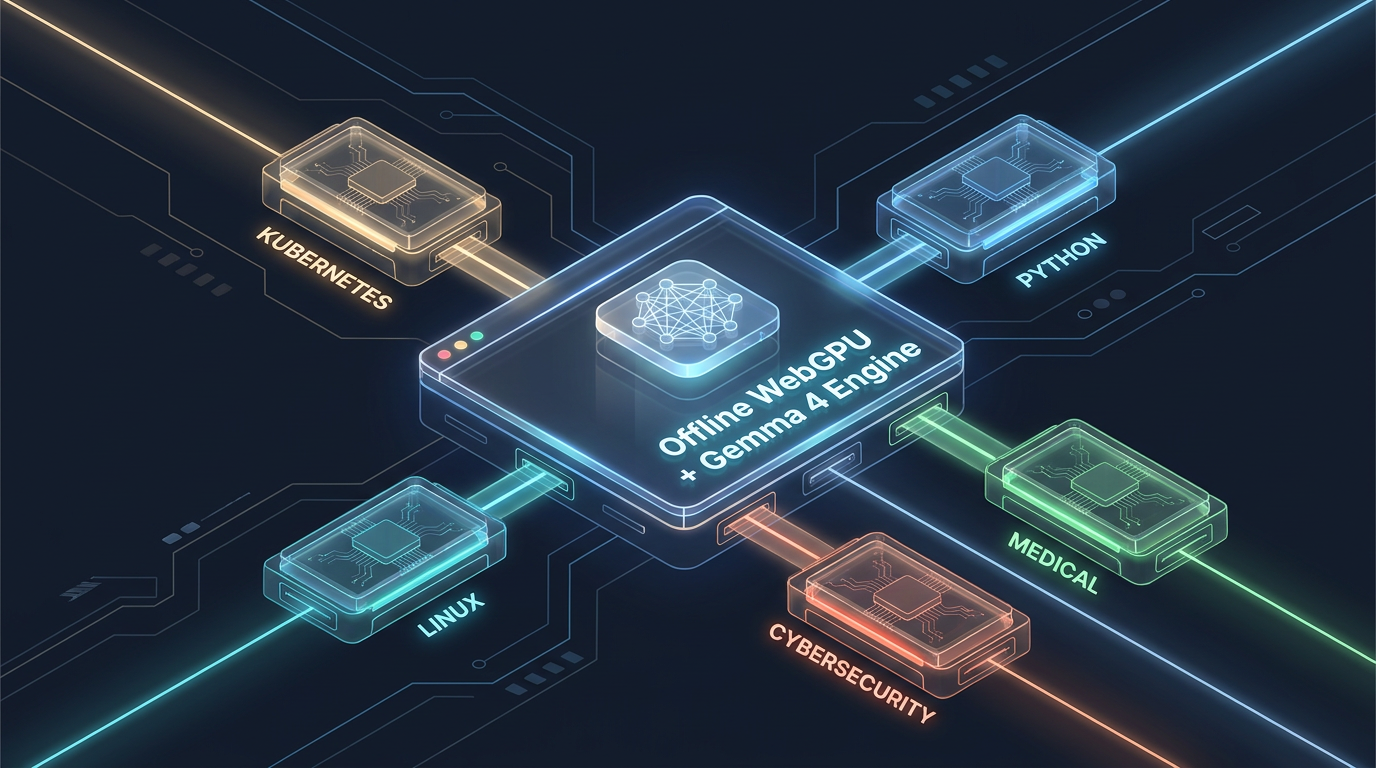
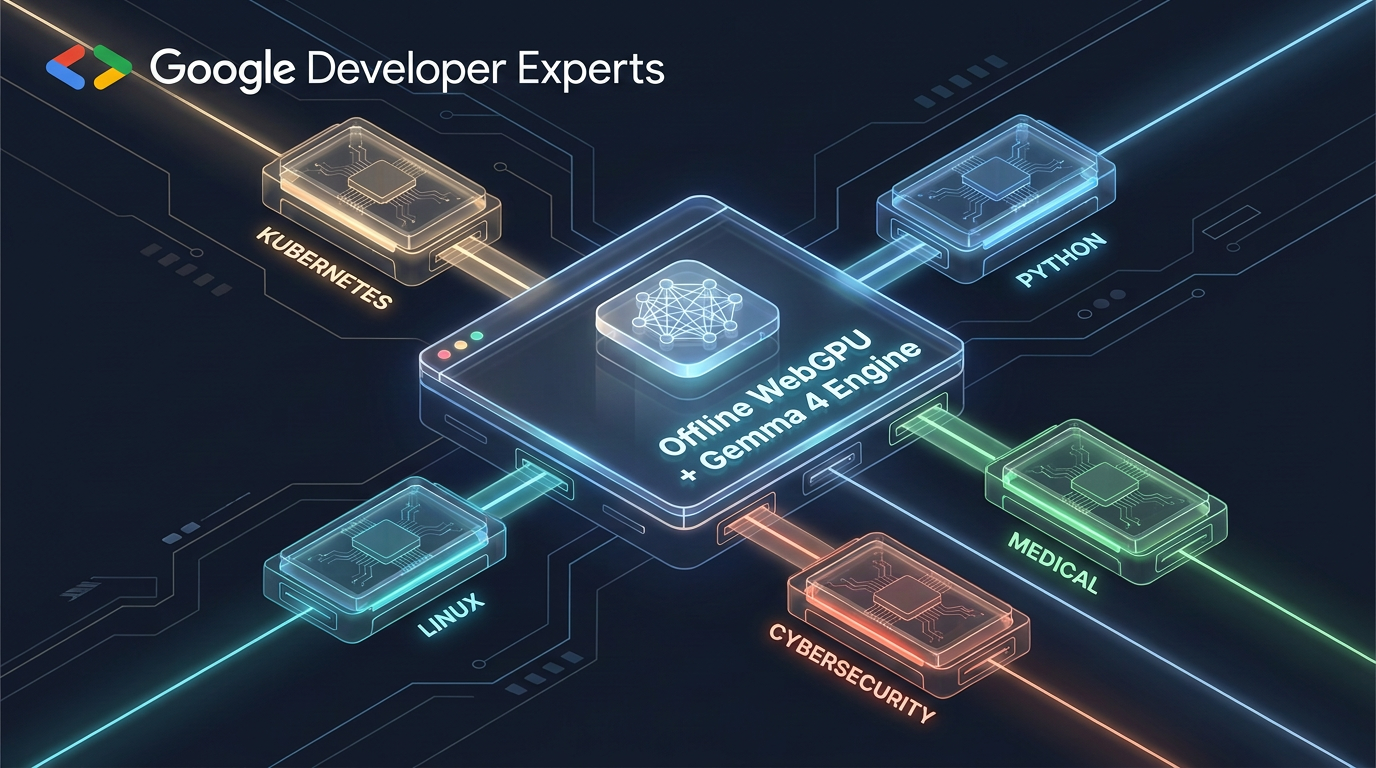
Expand universal RAG blog and add GDE lockup to cover image

Changed region(s): [[0.0312, 0.0625, 0.5, 0.125]]

diff --git a/blog/universal-rag-blog.md b/blog/universal-rag-blog.md
@@ -1,6 +1,6 @@
-# Making Offline Web AI RAG Universal: How to Swap Subjects in Minutes
+# Making Offline Web AI RAG Universal: Introducing SourceDesk AI & Replaceable Subject Packs
 
-### Turn a Kubernetes-specific offline RAG exam assistant into a reusable, subject-agnostic platform for Python, Linux, Cybersecurity, or any technical course.
+### How to turn a single-course offline RAG exam assistant into a universal, subject-agnostic platform—supporting Markdown, PDF, DOCX, and HTML with 1-command subject updates.
 
 ![Making Offline Web AI RAG Universal — Cover Image](./images/universal-cover.png)
 
@@ -10,110 +10,110 @@ That post covered *why* offline Web AI solves classroom equity and academic inte
 
 Now comes the next practical question from educators:
 
-> **"I don't teach Kubernetes. How do I adapt this for Python, Linux administration, cybersecurity, or my own course notes—and update it easily every semester?"**
+> **"I don't teach Kubernetes. How do I adapt this for Python, Linux administration, cybersecurity, or my own course notes—and update it easily every semester without rebuilding the entire 2 GB model bundle?"**
 
-The good news is that **the entire browser runtime and Windows packager are already domain-agnostic**. You don't need to touch WebGPU shaders, OPFS caching, or LiteRT-LM bindings to switch subjects.
-
-In this guide, we'll look at how to decouple the **subject corpus** from the **universal runtime**, and how to set up a clean, repeatable workflow to swap or update subjects in minutes.
+That is exactly why we evolved the architecture into **[SourceDesk AI](https://github.com/wongcyrus/sourcedesk-ai)** (`sourcedesk-ai`): a universal offline RAG platform built around **replaceable subject packs** and **shared local models**.
 
 ---
 
 ## 1. The Core Insight: Fixed Runtime vs. Swappable Subject Cartridge
 
-When you strip away the Kubernetes branding, the system splits cleanly into two layers:
+When you strip away the Kubernetes branding, the system splits cleanly into two independent layers:
 
 ![Fixed Runtime vs. Swappable Subject Cartridge](./images/subject-swap-architecture.png)
 
-1. **The Fixed Universal Runtime (Never Changes)**
-   - `src/CosineSimilarity.js`: Loads any normalized `vectors-<hash>.f32` matrix into WebGPU.
-   - `src/KeywordSearch.js`: Runs BM25 + Reciprocal Rank Fusion (RRF) over any `keywords-<hash>.json`.
-   - `src/OfflineAnswerGenerator.js`: Streams grounded answers from `Gemma 4 E2B` with OPFS caching.
-   - `scripts/package-windows.py` & `windows/serve.py`: Bundles Python 3.14.4 embeddable + static assets into `<2 GiB` offline ZIPs on `localhost:8080`.
+### 1. The Fixed Universal Runtime (Built Once, Shared Across All Courses)
+- **`src/CosineSimilarity.js`**: Loads any normalized `vectors-<hash>.f32` matrix into WebGPU and runs `tf.matMul` + `tf.topk` in milliseconds.
+- **`src/KeywordSearch.js`**: Runs BM25 + Reciprocal Rank Fusion (RRF) over any `keywords-<hash>.json`.
+- **`src/OfflineAnswerGenerator.js`**: Streams grounded answers from **Gemma 4 E2B** (`~2.01 GB`) with atomic **OPFS** caching.
+- **Shared Model & Windows Runtime (`package:common` / `package:app`)**: Bundles Python 3.14.4 embeddable, `EmbeddingGemma 300M`, and `Gemma 4 E2B` once.
 
-2. **The Swappable Subject Cartridge (Changes Per Course)**
-   - **Source Documentation**: An HTML print view, static docs site (MkDocs, Docusaurus, Sphinx), or Markdown/PDFs converted to HTML.
-   - **Prebuilt Index**: `vectors-<hash>.f32` + `keywords-<hash>.json` + chunk metadata.
-   - **Sanitized Local Mirror**: Offline HTML pages + images with `script-src 'none'` CSP.
-   - **Subject Metadata**: Course title, example questions, and the system prompt domain instruction.
+### 2. The Swappable Subject Pack (Lightweight, Course-Specific)
+Everything that changes between courses lives in a self-contained subject pack:
+- **Source Documentation**: HTML, Markdown (`.md`), PDF (`.pdf`), or Word (`.docx`) course materials.
+- **Prebuilt Index**: `vectors-<hash>.f32` + `keywords-<hash>.json` + chunk metadata.
+- **Sanitized Local Mirror**: Offline HTML pages + local assets with `script-src 'none'` CSP.
+- **Subject Manifest**: Course title, domain prompt instructions, and sample questions.
 
----
-
-## 2. Making It Universal with `subject.config.json`
-
-Currently, Kubernetes-specific values live in a few places:
-- `scripts/build-kubernetes.mjs` (source URL, sitemap, output paths)
-- `src/OfflineAnswerGenerator.js` (`INSTRUCTIONS` mentioning *"Answer Kubernetes questions..."*)
-- `web/kubernetes.html` (page title, header, and sample prompt chips)
-
-To make the repo universal for any subject without editing code each time, extract those into a single **`subject.config.json`** at the project root:
-
-```json
-{
-  "id": "linux-admin",
-  "title": "Linux Administration Exam Assistant",
-  "source": {
-    "type": "html-sitemap",
-    "entryUrl": "https://example.edu/linux-docs/_print/",
-    "sitemapUrl": "https://example.edu/linux-docs/sitemap.xml"
-  },
-  "prompt": {
-    "domainName": "Linux administration",
-    "codeHint": "a practical shell command or config snippet"
-  },
-  "ui": {
-    "placeholder": "Ask about systemd, permissions, networking, or bash...",
-    "sampleQuestions": [
-      "How do I create and enable a systemd service?",
-      "What is the difference between chmod 750 and 640?"
-    ]
-  }
-}
-```
-
-With this single config file:
-- **Ingestion** reads `source.entryUrl` and `source.sitemapUrl` (or a local `./docs-source/` folder).
-- **Generation** interpolates `prompt.domainName` and `prompt.codeHint` into `INSTRUCTIONS` in `OfflineAnswerGenerator.js`—keeping all the anti-injection and citation-grounding rules intact.
-- **UI** renders `title`, `ui.placeholder`, and `ui.sampleQuestions` dynamically at startup.
+Because the **2+ GB AI models never change between subjects**, students who already have the shared runtime cached in their browser's OPFS on `localhost:8080` only need to swap in the lightweight subject pack!
 
 ---
 
-## 3. Adapting Any Documentation Format
+## 2. Multi-Format Ingestion: Beyond HTML Sitemaps
 
-Not every subject has a single `/_print/` page like Kubernetes. Here is how to feed other common course materials into the same chunker:
+In the original Kubernetes prototype, `build-kubernetes.mjs` was hardcoded to scrape a single `/_print/` HTML page and XML sitemap. Real-world courses rarely look like that—educators have **Markdown lecture notes, PDF textbooks, DOCX lab manuals, and static doc sites**.
 
-- **Static Doc Sites (Sphinx, MkDocs, Docusaurus, MDN)**: Crawl the local build output (`_build/html` or `site/`) or sitemap, then run the same heading-aware chunker (512 max tokens, 64-token overlap).
-- **Markdown Course Notes**: Convert `.md` files to clean semantic HTML (using `markdown-it`, which is already bundled in the project) so heading anchors (`#section-id`) work seamlessly in the side-by-side `<iframe>` reader.
-- **PDF Textbooks / Lab Manuals**: Extract text by section into HTML pages with heading anchors before running the embedding pipeline.
+In **SourceDesk AI**, [`scripts/build-subject.mjs`](https://github.com/wongcyrus/sourcedesk-ai/blob/main/scripts/build-subject.mjs) unifies ingestion across formats:
+- **HTML & Static Sites** (`linkedom`): Crawls local HTML snapshots or sitemaps, preserving heading structure.
+- **Markdown** (`markdown-it` via `scripts/markdown-source.mjs`): Converts `.md` files into clean semantic HTML with heading anchors (`<h2 id="...">`).
+- **PDF & DOCX** (`pdfjs-dist` & `mammoth` via `scripts/document-source.mjs`): Extracts structured sections from textbooks, syllabi, and lab sheets into HTML pages.
 
-> **Tip:** Keep heading anchors (`<h2 id="...">`) intact during conversion. That's what lets students click `[1]` in an answer and jump straight to the exact paragraph in the side-by-side reader.
+> **Why convert everything to semantic HTML with heading anchors?**  
+> Because it powers the side-by-side verification reader! When a student clicks `[1]` in an answer, the browser opens the exact local HTML page and scrolls straight to the `#heading-anchor` inside the sandboxed `<iframe>`.
 
 ---
 
-## 4. The 4-Step Workflow to Update or Ship a New Subject
+## 3. The 4-Step Workflow to Add or Update a Subject
 
-Once your `subject.config.json` is in place, updating the assistant for a new subject—or refreshing it for a new semester—takes four straightforward steps:
+Once your course materials are ready, building, verifying, and shipping a new subject pack takes four commands:
 
 ![4-Step Subject Update Pipeline](./images/easy-update-workflow.png)
 
-1. **Configure the Subject**: Update `subject.config.json` with the new course name, sample questions, and documentation source (URL or local folder).
-2. **Build & Embed**: Run the ingestion script to chunk by headings, compute 768-dimensional `EmbeddingGemma` vectors, and write `vectors-<hash>.f32` + `keywords-<hash>.json`.
-3. **Sanitize the Local Mirror**: Run `scripts/prepare-offline.mjs` to strip scripts/forms/iframes, mirror local images, and apply `script-src 'none'` CSP.
-4. **Package & Ship**: Run `scripts/package-windows.py` to generate the `<2 GiB` offline ZIP archives with SHA-256 checksums.
+### Step 1: Configure & Prepare Your Subject Source
+Place your course docs (Markdown, PDF, DOCX, or HTML) in your subject folder and define the subject metadata (title, domain name for the system prompt, and sample questions).
 
-Because **Gemma 4 E2B** (`~2.01 GB`) and **EmbeddingGemma** (`300M`) don't change between subjects, students who already cached the models in their browser's OPFS on `localhost:8080` only need the new lightweight subject bundle!
+### Step 2: Build the Subject Index (`build:subject`)
+Run the unified subject builder to chunk by headings, compute 768-dimensional `EmbeddingGemma` vectors, and generate the BM25 keyword index:
+
+```bash
+npm run build:subject
+```
+
+This outputs the content-hashed `vectors-<hash>.f32` matrix and `keywords-<hash>.json` postings.
+
+### Step 3: Evaluate Retrieval Quality (`test:retrieval`)
+Before handing a new subject pack to students, you can run automated retrieval checks to verify that your chunking and hybrid search actually surface the right passages for key exam topics:
+
+```bash
+npm run test:retrieval
+```
+
+### Step 4: Sanitize, Package, and Activate (`prepare:offline` & `package:subject`)
+Sanitize the local HTML mirror (stripping `<script>`, `<form>`, `<iframe>`, and enforcing `script-src 'none'` CSP) and package **only the subject pack** for Windows 11:
+
+```bash
+npm run prepare:offline
+npm run package:subject
+```
+
+On a classroom machine or student laptop, switching between subjects (e.g., from *Kubernetes* to *Python* or *Linux*) is a single command:
+
+```bash
+npm run activate:subject
+```
+
+---
+
+## 4. Why This Matters for Classroom Operations
+
+Separating the **shared model runtime** from **subject packs** solves three real-world headaches for IT teams and instructors:
+
+1. **Fast Semester Updates**: Updating a typo in a lab manual or adding a new lecture only requires regenerating the small subject pack—not re-downloading 2 GB of LLM weights.
+2. **Multi-Course Lab Machines**: A single university lab PC can host multiple subjects (e.g., *Intro to Python*, *Linux Admin*, *Cloud Security*) sharing one `Gemma 4 E2B` OPFS cache on `localhost:8080`.
+3. **Consistent Grounding & Safety**: Every subject automatically inherits the same prompt-injection defenses, inert `markdown-it` rendering, and strict CSP sandboxing.
 
 ---
 
 ## Conclusion
 
-By separating the **universal WebGPU + Gemma 4 runtime** from the **subject cartridge**, educators can turn a single-course prototype into a repeatable platform for any technical curriculum.
+By decoupling the **universal WebGPU + Gemma 4 runtime** from **replaceable subject packs**, **[SourceDesk AI](https://github.com/wongcyrus/sourcedesk-ai)** turns an offline Kubernetes exam assistant into a reusable platform for any technical curriculum.
 
-- **One codebase**, unlimited subjects.
-- **Zero runtime changes** when updating course materials.
-- **Same 100% offline, fair exam experience** for every student.
+- **One runtime**, unlimited subjects.
+- **Supports HTML, Markdown, PDF, and DOCX** out of the box.
+- **1-command subject switching** with zero changes to the browser engine or cached models.
 
 ### Explore the Project
-- **GitHub Repository**: [github.com/wongcyrus/kubernetes-webai-rag](https://github.com/wongcyrus/kubernetes-webai-rag)
+- **SourceDesk AI (Universal Platform)**: [github.com/wongcyrus/sourcedesk-ai](https://github.com/wongcyrus/sourcedesk-ai)
 - **Part 1 (Architecture & Classroom Equity)**: [Leveling the Playing Field: Building a 100% Offline Kubernetes Docs RAG Exam Assistant](https://dev.to/gde/leveling-the-playing-field-building-a-100-offline-kubernetes-docs-rag-exam-assistant-with-web-ai-53bi)
 
 **Suggested Tags:** `WebAI`, `RAG`, `Gemma`, `WebGPU`, `EdTech`
